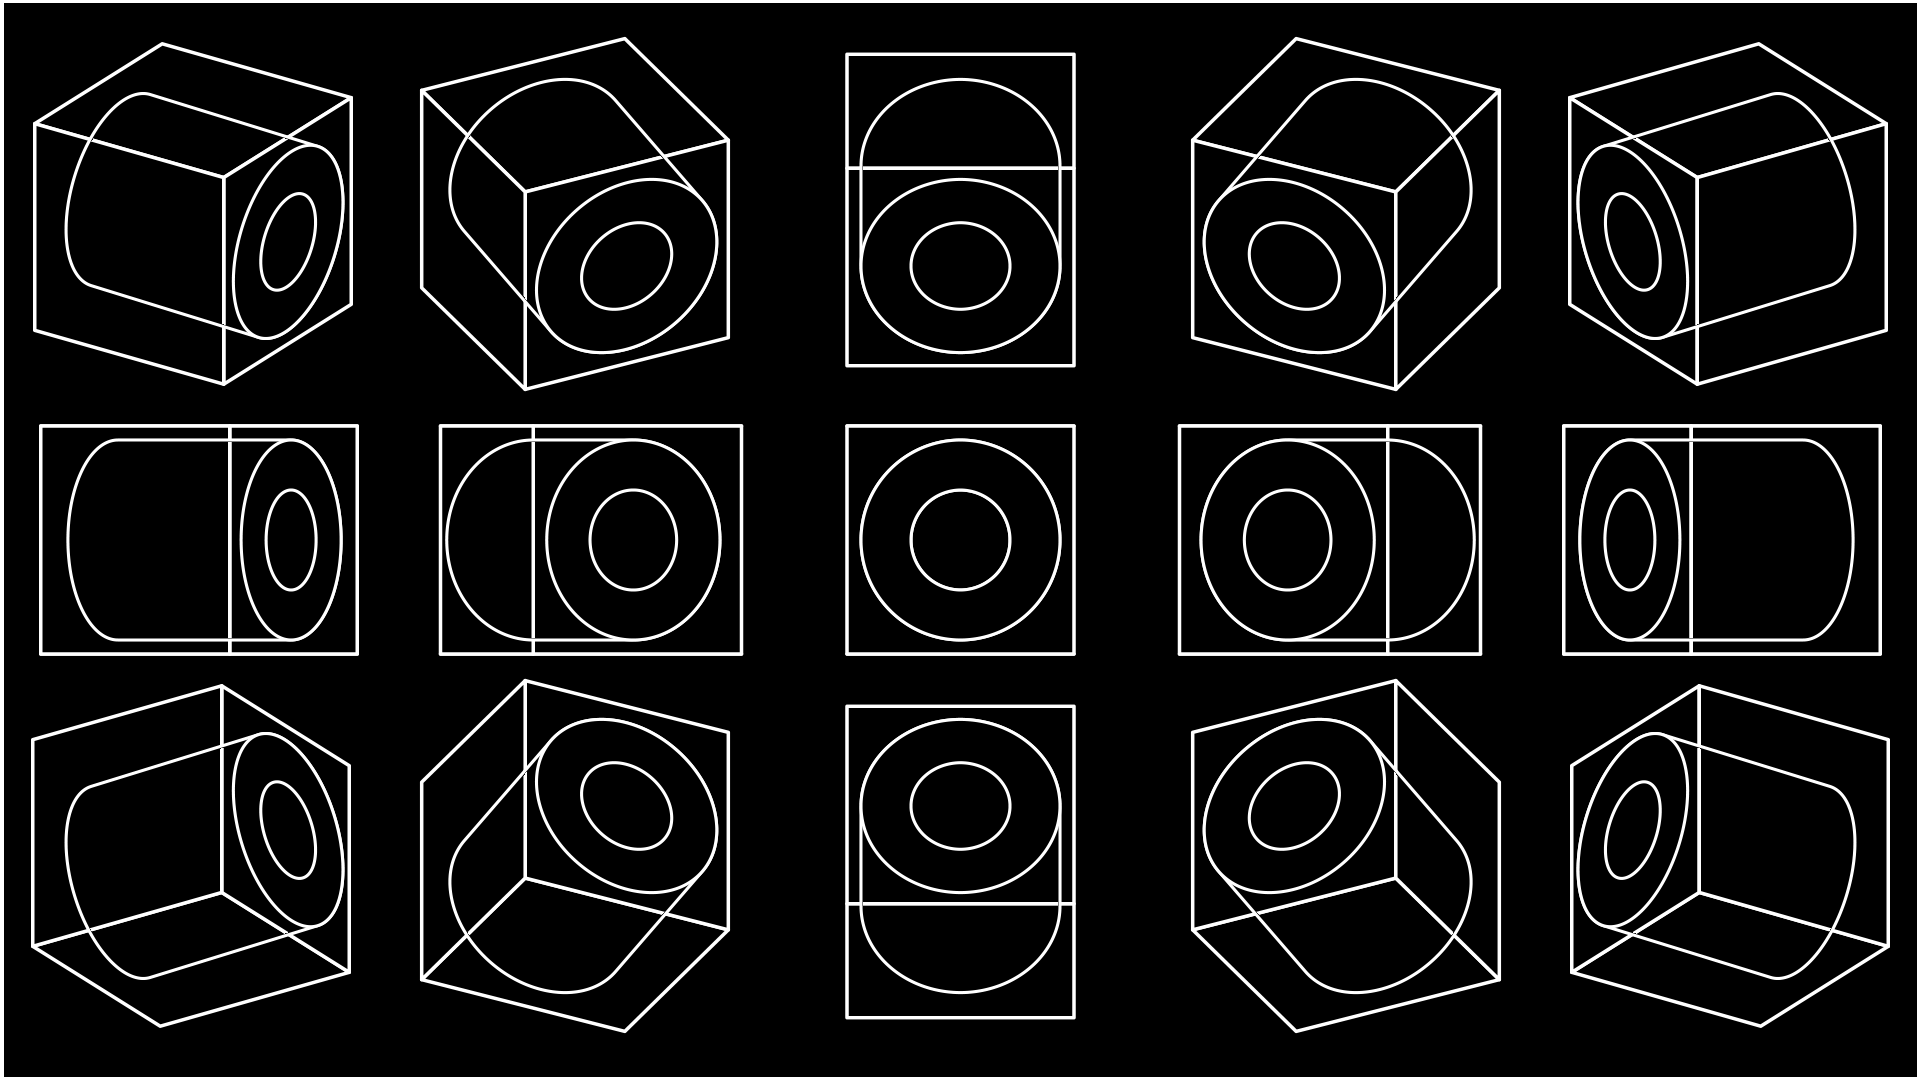
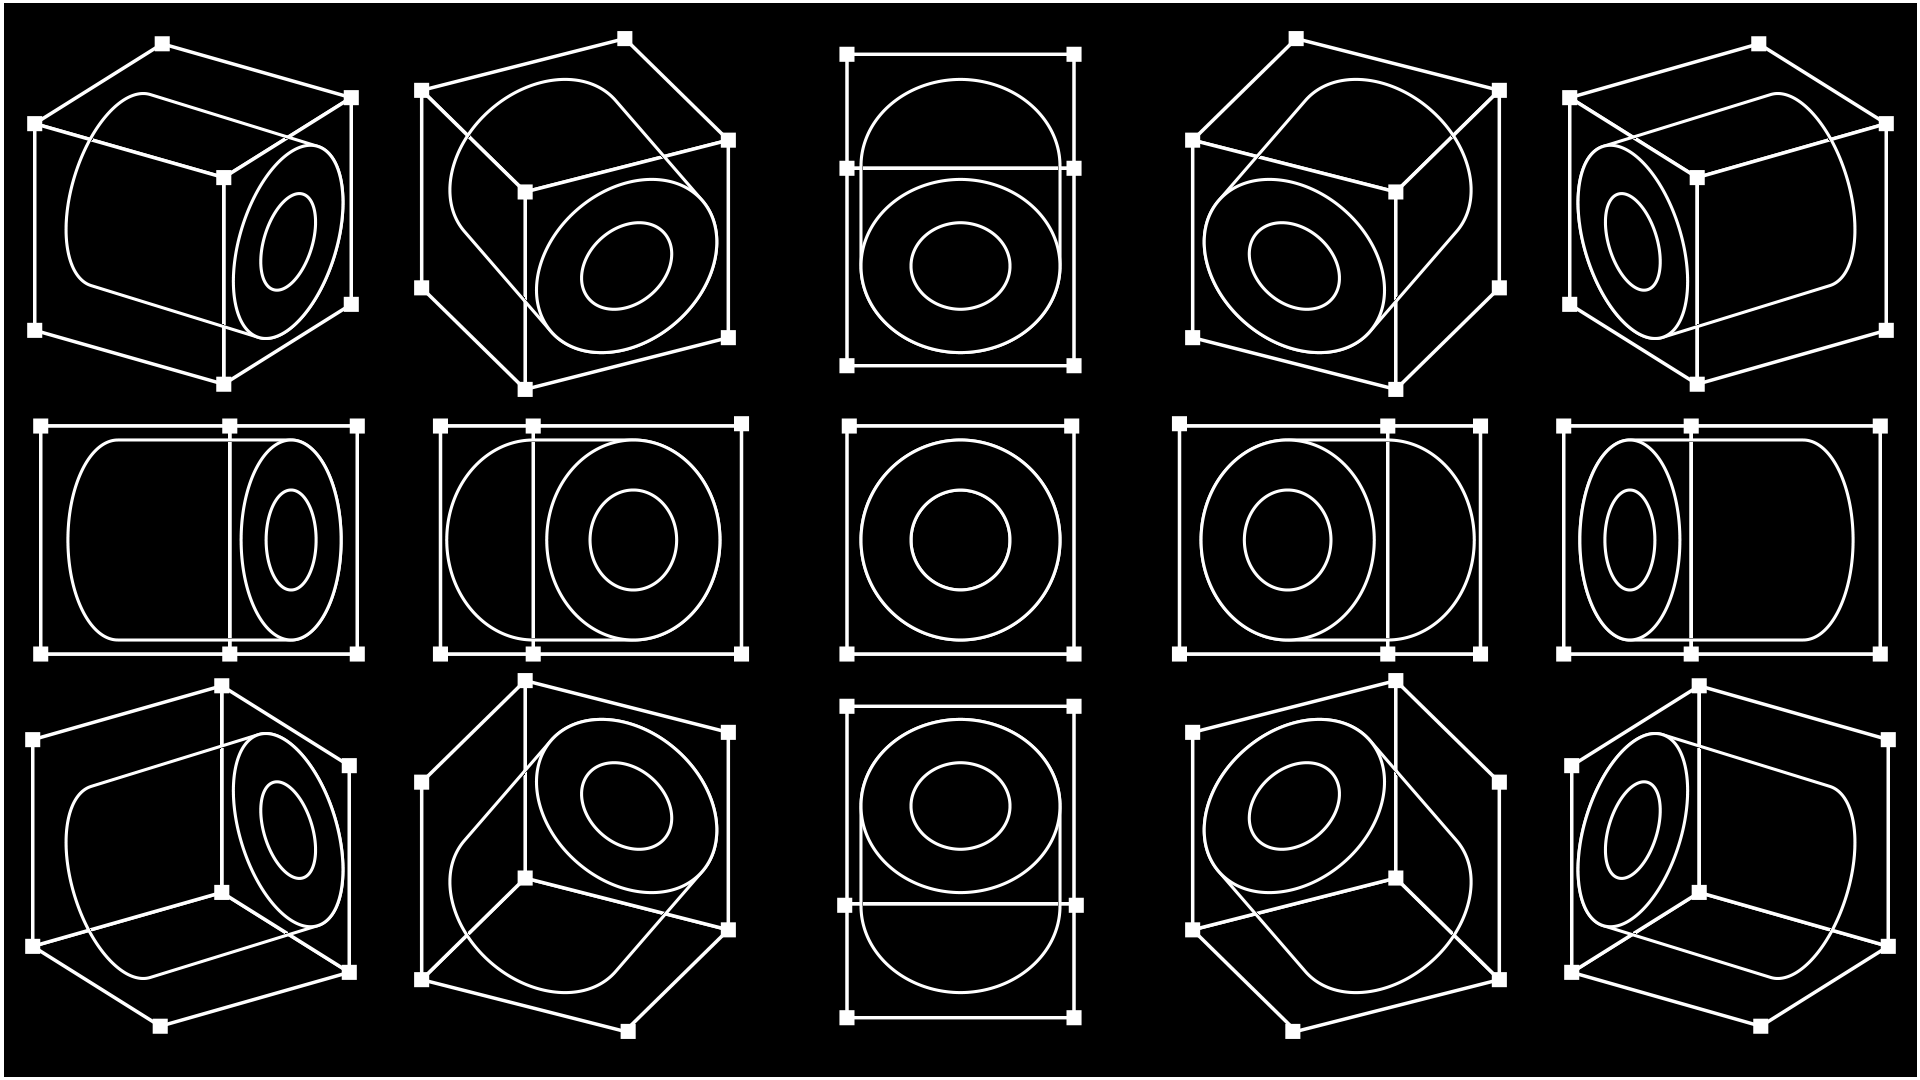
fixed carousel functionality for the umpteenth time

diff --git a/script.js b/script.js
@@ -346,3 +346,87 @@ interactiveElements.forEach(element => {
 
 //        const nextProject = document.querySelector('.next-project');
 //        const previousProject = document.querySelector('previous-project');
+
+        // Carousel functionality
+        function initializeCarousels() {
+            const videoGroups = document.querySelectorAll('.video-group');
+            
+            videoGroups.forEach(videoGroup => {
+                // Skip if already initialized to prevent duplicate listeners
+                if (videoGroup.dataset.carouselInitialized === 'true') {
+                    return;
+                }
+                
+                const container = videoGroup.querySelector('.video-carousel-container');
+                const iframes = container.querySelectorAll('iframe');
+                const prevBtn = videoGroup.querySelector('.carousel-prev');
+                const nextBtn = videoGroup.querySelector('.carousel-next');
+                const indicatorsContainer = videoGroup.parentElement.querySelector('.carousel-indicators');
+                const dots = indicatorsContainer ? indicatorsContainer.querySelectorAll('.carousel-dot') : [];
+                
+                // Store state on the element itself
+                videoGroup.dataset.carouselIndex = 0;
+                videoGroup.dataset.carouselInitialized = 'true';
+                
+                function updateCarousel(index) {
+                    const iframeCount = iframes.length;
+                    
+                    // Handle wrapping
+                    if (index < 0) {
+                        videoGroup.dataset.carouselIndex = iframeCount - 1;
+                    } else if (index >= iframeCount) {
+                        videoGroup.dataset.carouselIndex = 0;
+                    } else {
+                        videoGroup.dataset.carouselIndex = index;
+                    }
+                    
+                    const currentIndex = parseInt(videoGroup.dataset.carouselIndex);
+                    
+                    // Update iframes
+                    iframes.forEach((iframe, i) => {
+                        iframe.classList.remove('active');
+                        if (i === currentIndex) {
+                            iframe.classList.add('active');
+                        }
+                    });
+                    
+                    // Update dots
+                    dots.forEach((dot, i) => {
+                        dot.classList.remove('active');
+                        if (i === currentIndex) {
+                            dot.classList.add('active');
+                        }
+                    });
+                }
+                
+                // Previous button click
+                if (prevBtn) {
+                    prevBtn.addEventListener('click', (e) => {
+                        e.stopPropagation();
+                        const currentIdx = parseInt(videoGroup.dataset.carouselIndex);
+                        updateCarousel(currentIdx - 1);
+                    });
+                }
+                
+                // Next button click
+                if (nextBtn) {
+                    nextBtn.addEventListener('click', (e) => {
+                        e.stopPropagation();
+                        const currentIdx = parseInt(videoGroup.dataset.carouselIndex);
+                        updateCarousel(currentIdx + 1);
+                    });
+                }
+                
+                // Dot click
+                dots.forEach((dot, dotIndex) => {
+                    dot.addEventListener('click', (e) => {
+                        e.stopPropagation();
+                        updateCarousel(dotIndex);
+                    });
+                });
+            });
+        }
+        
+        // Initialize on page load
+        initializeCarousels();
+

diff --git a/script.min.js b/script.min.js
@@ -1,2 +1,2 @@
 // @ts-nocheck
-window.addEventListener("load",function(){const e=document.querySelector(".loader-wrapper");e&&(e.style.opacity="0",e.style.transition="opacity 0.5s ease",startVideoPlayback(),setTimeout(()=>{e.style.display="none"},100))}),Promise.all([fetch("play.html").then(e=>e.text()),fetch("play-script.js").then(e=>e.text())]).then(([e,n])=>{sessionStorage.setItem("play-html",e),sessionStorage.setItem("play-js",n)});const videoSrc="TZ_PlayPage Animation.webm",hiddenVideo=document.createElement("video");hiddenVideo.src=videoSrc,hiddenVideo.style.display="none",document.body.appendChild(hiddenVideo);const images=["Images/Project Thumbnails/01_Speed_Racer_Title.png","Images/Project Thumbnails/One Piece Titles_Master.png"];images.forEach(e=>{(new Image).src=e});const videoElement=document.getElementById("preview-video");function startVideoPlayback(){document.body.style.overflow="auto";const e=document.querySelectorAll(".intro-line"),n=document.querySelectorAll(".thumbnail-text"),t=document.querySelectorAll(".big-thumbnail"),i=document.querySelectorAll(".small-thumbnail");e.forEach(e=>e.classList.add("animate")),n.forEach(e=>e.classList.add("animate")),t.forEach(e=>e.classList.add("animate")),i.forEach(e=>e.classList.add("animate")),videoElement&&videoElement.play().catch(e=>{console.error("Error playing video:",e)})}videoElement&&videoElement.pause();const LinesLandingElement=document.getElementById("lines-landing"),tuckerLandingElement=document.getElementById("tucker-landing"),zieglerLandingElement=document.getElementById("ziegler-landing"),makeLandingElement=document.getElementById("make-landing"),itLandingElement=document.getElementById("it-landing"),workLandingElement=document.getElementById("work-landing"),slayLandingElement=document.getElementById("slay-landing");LinesLandingElement.style.opacity="0",tuckerLandingElement.style.opacity="0",zieglerLandingElement.style.opacity="0",makeLandingElement.style.opacity="0",itLandingElement.style.opacity="0",workLandingElement.style.opacity="0",slayLandingElement.style.opacity="0";const interactiveElements=[tuckerLandingElement,zieglerLandingElement,makeLandingElement,itLandingElement,workLandingElement,slayLandingElement],elementConfigs={"tucker-landing":{width:window.innerWidth*(782/1920),height:window.innerWidth*(184/1920),originX:()=>window.innerWidth*(445/1920),originY:()=>window.innerWidth*(164/1920)},"ziegler-landing":{width:window.innerWidth*(764/1920),height:window.innerWidth*(184/1920),originX:()=>window.innerWidth*(1228/1920),originY:()=>window.innerWidth*(164/1920)},"make-landing":{width:window.innerWidth*(340/1920),height:window.innerWidth*(86/1920),originX:()=>.184375*window.innerWidth,originY:()=>window.innerWidth*(337/1920)},"it-landing":{width:window.innerWidth*(94/1920),height:window.innerWidth*(86/1920),originX:()=>window.innerWidth*(485/1920),originY:()=>window.innerWidth*(337/1920)},"work-landing":{width:window.innerWidth*(622/1920),height:window.innerWidth*(153/1920),originX:()=>window.innerWidth*(549/1920),originY:()=>.25*window.innerWidth},"slay-landing":{width:window.innerWidth*(183/1920),height:window.innerWidth*(35/1920),originX:()=>window.innerWidth*(956/1920),originY:()=>window.innerWidth*(535/1920)}},elementStates={};function getDistance(e,n,t,i){return Math.sqrt(Math.pow(t-e,2)+Math.pow(i-n,2))}function getValue(e){return"function"==typeof e?e():e}function enableRepulsionEffect(){document.addEventListener("mousemove",function(e){const n=e.clientX,t=e.clientY,i=mainContent.classList.contains("nav-open")&&parseFloat(getComputedStyle(root).getPropertyValue("--nav-scale"))||1;interactiveElements.forEach(e=>{const o=elementConfigs[e.id];if(!o)return;const a=getValue(o.width)*i,l=getValue(o.height)*i,r=getValue(o.originX)*i,d=getValue(o.originY)*i,c=Math.max(a,l)/2,s=getDistance(n,t,r,d),m=elementStates[e.id];if(s<c){m.isRepelled=!0;const i=Math.atan2(d-t,r-n),o=50,a=Math.cos(i)*o,l=Math.sin(i)*o*.4;e.style.transform=`translate(${a}px, ${l}px)`}else m.isRepelled&&(m.isRepelled=!1,e.style.transform="translate(0px, 0px)")})})}interactiveElements.forEach(e=>{elementStates[e.id]={isRepelled:!1},e.style.transition="transform 0.3s ease-out"}),interactiveElements.forEach(e=>{e.addEventListener("contextmenu",e=>{e.preventDefault()}),e.addEventListener("dragstart",e=>{e.preventDefault()})}),videoElement.addEventListener("ended",function(){LinesLandingElement.style.opacity="1",tuckerLandingElement.style.opacity="1",zieglerLandingElement.style.opacity="1",makeLandingElement.style.opacity="1",itLandingElement.style.opacity="1",workLandingElement.style.opacity="1",slayLandingElement.style.opacity="1",setTimeout(function(){videoElement.style.opacity="0"},200),setTimeout(function(){videoElement.style.display="none",enableRepulsionEffect()},400)});const mainContent=document.querySelector(".main-content"),navbar=document.querySelector(".navbar"),navToggleBtn=document.querySelector(".nav-toggle-btn"),innerNavToggleBtn=document.querySelector(".inner-nav-toggle-btn"),root=document.documentElement,playContentContainer=document.querySelector(".play-content-container"),playTab=document.querySelector(".play-tab"),workTab=document.querySelector(".work-tab"),projectCloseBtn=document.querySelector(".project-close-btn");function calculateNavScale(){const e=(window.innerWidth-200)/window.innerWidth;root.style.setProperty("--nav-scale",e)}function toggleNavBar(){mainContent.classList.toggle("nav-open"),navbar.classList.toggle("nav-open")}const projects=[{name:"Pepsi Smart Can",content:document.querySelector(".pepsi-project"),hash:"Pepsi-Smart-Can",year:"2025"},{name:"Tenstorrent",content:document.querySelector(".tenstorrent-project"),hash:"Tenstorrent",year:"2025-2026"},{name:"PostCon",content:document.querySelector(".postcon-project"),hash:"PostCon",year:"2024-2025"},{name:"Quick Shapes",content:document.querySelector(".quick-shapes-project"),hash:"Quick-Shapes",year:"2026"},{name:"FX on Hulu",content:document.querySelector(".fx-on-hulu-project"),hash:"FX-on-Hulu",year:"2023"}];document.addEventListener("click",e=>{const n=.1*window.innerWidth,t=.8*window.innerWidth,i=.8*window.innerHeight,o=.1*window.innerHeight,a=e.clientX,l=e.clientY;(a<n||a>n+t||l<o||l>o+i)&&"flex"===projectBackground.style.display&&closeProjectWindow()});const projectBackground=document.querySelector(".project-background");function closeProjectWindow(){projectBackground.style.display="none",projects.forEach(e=>{e.content.style.display="none"}),document.body.style.overflow="auto"}const projectLinks=document.querySelectorAll(".project-link");projectLinks.forEach((e,n)=>{e.addEventListener("click",()=>openProjectWindow(n))});const projectText=document.querySelector(".project-text"),projectYear=document.querySelector(".project-year"),projectWindow=document.querySelector(".project-window");function openProjectWindow(e){projectBackground.style.display="flex",projects.forEach(e=>{e.content.style.display="none"}),projects[e].content.style.display="flex",projectWindow.scrollTop=0,projectText.textContent=projects[e].name,projectYear.textContent=projects[e].year,document.body.style.overflow="hidden"}calculateNavScale(),window.addEventListener("resize",calculateNavScale),navToggleBtn.addEventListener("click",toggleNavBar),innerNavToggleBtn.addEventListener("click",toggleNavBar),projectCloseBtn.addEventListener("click",closeProjectWindow);
+window.addEventListener("load",function(){const e=document.querySelector(".loader-wrapper");e&&(e.style.opacity="0",e.style.transition="opacity 0.5s ease",startVideoPlayback(),setTimeout(()=>{e.style.display="none"},100))}),Promise.all([fetch("play.html").then(e=>e.text()),fetch("play-script.js").then(e=>e.text())]).then(([e,t])=>{sessionStorage.setItem("play-html",e),sessionStorage.setItem("play-js",t)});const videoSrc="TZ_PlayPage Animation.webm",hiddenVideo=document.createElement("video");hiddenVideo.src=videoSrc,hiddenVideo.style.display="none",document.body.appendChild(hiddenVideo);const images=["Images/Project Thumbnails/01_Speed_Racer_Title.png","Images/Project Thumbnails/One Piece Titles_Master.png"];images.forEach(e=>{(new Image).src=e});const videoElement=document.getElementById("preview-video");function startVideoPlayback(){document.body.style.overflow="auto";const e=document.querySelectorAll(".intro-line"),t=document.querySelectorAll(".thumbnail-text"),n=document.querySelectorAll(".big-thumbnail"),o=document.querySelectorAll(".small-thumbnail");e.forEach(e=>e.classList.add("animate")),t.forEach(e=>e.classList.add("animate")),n.forEach(e=>e.classList.add("animate")),o.forEach(e=>e.classList.add("animate")),videoElement&&videoElement.play().catch(e=>{console.error("Error playing video:",e)})}videoElement&&videoElement.pause();const LinesLandingElement=document.getElementById("lines-landing"),tuckerLandingElement=document.getElementById("tucker-landing"),zieglerLandingElement=document.getElementById("ziegler-landing"),makeLandingElement=document.getElementById("make-landing"),itLandingElement=document.getElementById("it-landing"),workLandingElement=document.getElementById("work-landing"),slayLandingElement=document.getElementById("slay-landing");LinesLandingElement.style.opacity="0",tuckerLandingElement.style.opacity="0",zieglerLandingElement.style.opacity="0",makeLandingElement.style.opacity="0",itLandingElement.style.opacity="0",workLandingElement.style.opacity="0",slayLandingElement.style.opacity="0";const interactiveElements=[tuckerLandingElement,zieglerLandingElement,makeLandingElement,itLandingElement,workLandingElement,slayLandingElement],elementConfigs={"tucker-landing":{width:window.innerWidth*(782/1920),height:window.innerWidth*(184/1920),originX:()=>window.innerWidth*(445/1920),originY:()=>window.innerWidth*(164/1920)},"ziegler-landing":{width:window.innerWidth*(764/1920),height:window.innerWidth*(184/1920),originX:()=>window.innerWidth*(1228/1920),originY:()=>window.innerWidth*(164/1920)},"make-landing":{width:window.innerWidth*(340/1920),height:window.innerWidth*(86/1920),originX:()=>.184375*window.innerWidth,originY:()=>window.innerWidth*(337/1920)},"it-landing":{width:window.innerWidth*(94/1920),height:window.innerWidth*(86/1920),originX:()=>window.innerWidth*(485/1920),originY:()=>window.innerWidth*(337/1920)},"work-landing":{width:window.innerWidth*(622/1920),height:window.innerWidth*(153/1920),originX:()=>window.innerWidth*(549/1920),originY:()=>.25*window.innerWidth},"slay-landing":{width:window.innerWidth*(183/1920),height:window.innerWidth*(35/1920),originX:()=>window.innerWidth*(956/1920),originY:()=>window.innerWidth*(535/1920)}},elementStates={};function getDistance(e,t,n,o){return Math.sqrt(Math.pow(n-e,2)+Math.pow(o-t,2))}function getValue(e){return"function"==typeof e?e():e}function enableRepulsionEffect(){document.addEventListener("mousemove",function(e){const t=e.clientX,n=e.clientY,o=mainContent.classList.contains("nav-open")&&parseFloat(getComputedStyle(root).getPropertyValue("--nav-scale"))||1;interactiveElements.forEach(e=>{const i=elementConfigs[e.id];if(!i)return;const a=getValue(i.width)*o,r=getValue(i.height)*o,l=getValue(i.originX)*o,c=getValue(i.originY)*o,d=Math.max(a,r)/2,s=getDistance(t,n,l,c),u=elementStates[e.id];if(s<d){u.isRepelled=!0;const o=Math.atan2(c-n,l-t),i=50,a=Math.cos(o)*i,r=Math.sin(o)*i*.4;e.style.transform=`translate(${a}px, ${r}px)`}else u.isRepelled&&(u.isRepelled=!1,e.style.transform="translate(0px, 0px)")})})}interactiveElements.forEach(e=>{elementStates[e.id]={isRepelled:!1},e.style.transition="transform 0.3s ease-out"}),interactiveElements.forEach(e=>{e.addEventListener("contextmenu",e=>{e.preventDefault()}),e.addEventListener("dragstart",e=>{e.preventDefault()})}),videoElement.addEventListener("ended",function(){LinesLandingElement.style.opacity="1",tuckerLandingElement.style.opacity="1",zieglerLandingElement.style.opacity="1",makeLandingElement.style.opacity="1",itLandingElement.style.opacity="1",workLandingElement.style.opacity="1",slayLandingElement.style.opacity="1",setTimeout(function(){videoElement.style.opacity="0"},200),setTimeout(function(){videoElement.style.display="none",enableRepulsionEffect()},400)});const mainContent=document.querySelector(".main-content"),navbar=document.querySelector(".navbar"),navToggleBtn=document.querySelector(".nav-toggle-btn"),innerNavToggleBtn=document.querySelector(".inner-nav-toggle-btn"),root=document.documentElement,playContentContainer=document.querySelector(".play-content-container"),playTab=document.querySelector(".play-tab"),workTab=document.querySelector(".work-tab"),projectCloseBtn=document.querySelector(".project-close-btn");function calculateNavScale(){const e=(window.innerWidth-200)/window.innerWidth;root.style.setProperty("--nav-scale",e)}function toggleNavBar(){mainContent.classList.toggle("nav-open"),navbar.classList.toggle("nav-open")}const projects=[{name:"Pepsi Smart Can",content:document.querySelector(".pepsi-project"),hash:"Pepsi-Smart-Can",year:"2025"},{name:"Tenstorrent",content:document.querySelector(".tenstorrent-project"),hash:"Tenstorrent",year:"2025-2026"},{name:"PostCon",content:document.querySelector(".postcon-project"),hash:"PostCon",year:"2024-2025"},{name:"Quick Shapes",content:document.querySelector(".quick-shapes-project"),hash:"Quick-Shapes",year:"2026"},{name:"FX on Hulu",content:document.querySelector(".fx-on-hulu-project"),hash:"FX-on-Hulu",year:"2023"}];document.addEventListener("click",e=>{const t=.1*window.innerWidth,n=.8*window.innerWidth,o=.8*window.innerHeight,i=.1*window.innerHeight,a=e.clientX,r=e.clientY;(a<t||a>t+n||r<i||r>i+o)&&"flex"===projectBackground.style.display&&closeProjectWindow()});const projectBackground=document.querySelector(".project-background");function closeProjectWindow(){projectBackground.style.display="none",projects.forEach(e=>{e.content.style.display="none"}),document.body.style.overflow="auto"}const projectLinks=document.querySelectorAll(".project-link");projectLinks.forEach((e,t)=>{e.addEventListener("click",()=>openProjectWindow(t))});const projectText=document.querySelector(".project-text"),projectYear=document.querySelector(".project-year"),projectWindow=document.querySelector(".project-window");function openProjectWindow(e){projectBackground.style.display="flex",projects.forEach(e=>{e.content.style.display="none"}),projects[e].content.style.display="flex",projectWindow.scrollTop=0,projectText.textContent=projects[e].name,projectYear.textContent=projects[e].year,document.body.style.overflow="hidden"}function initializeCarousels(){document.querySelectorAll(".video-group").forEach(e=>{if("true"===e.dataset.carouselInitialized)return;const t=e.querySelector(".video-carousel-container").querySelectorAll("iframe"),n=e.querySelector(".carousel-prev"),o=e.querySelector(".carousel-next"),i=e.parentElement.querySelector(".carousel-indicators"),a=i?i.querySelectorAll(".carousel-dot"):[];function r(n){const o=t.length;e.dataset.carouselIndex=n<0?o-1:n>=o?0:n;const i=parseInt(e.dataset.carouselIndex);t.forEach((e,t)=>{e.classList.remove("active"),t===i&&e.classList.add("active")}),a.forEach((e,t)=>{e.classList.remove("active"),t===i&&e.classList.add("active")})}e.dataset.carouselIndex=0,e.dataset.carouselInitialized="true",n&&n.addEventListener("click",t=>{t.stopPropagation();r(parseInt(e.dataset.carouselIndex)-1)}),o&&o.addEventListener("click",t=>{t.stopPropagation();r(parseInt(e.dataset.carouselIndex)+1)}),a.forEach((e,t)=>{e.addEventListener("click",e=>{e.stopPropagation(),r(t)})})})}calculateNavScale(),window.addEventListener("resize",calculateNavScale),navToggleBtn.addEventListener("click",toggleNavBar),innerNavToggleBtn.addEventListener("click",toggleNavBar),projectCloseBtn.addEventListener("click",closeProjectWindow),initializeCarousels();